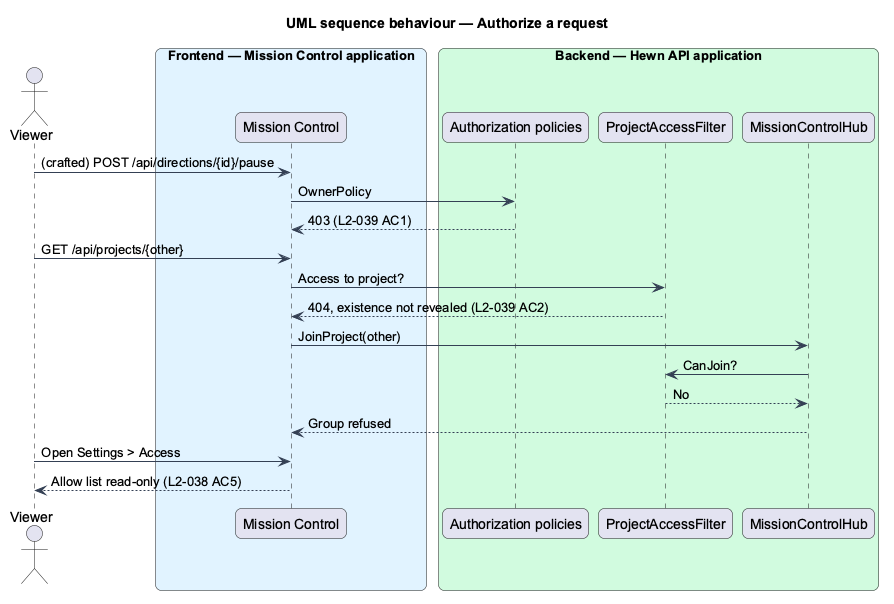
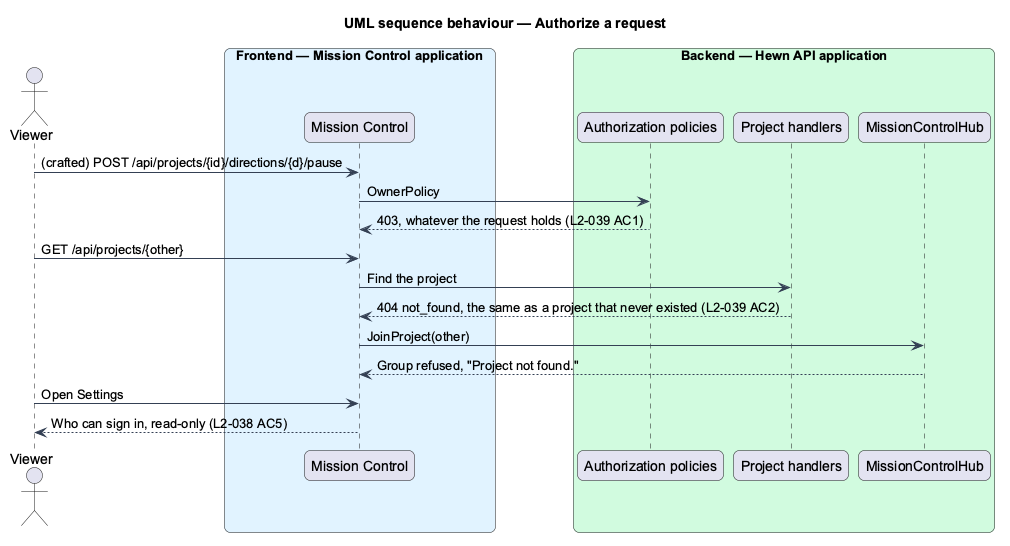
Record how access is managed and enforced
ADR 0023: every request checks its session against the allow list, held
in memory; new logins are confirmed with GitHub; an Owner can't remove
themselves. The sign-in design gains the manage-the-allow-list sequence,
its authorize sequence matches what's built, and the CHANGELOG lists
journey 21.

Traces to: L2-038, L2-039

Claude-Session: https://claude.ai/code/session_01LjZiMqftK4BJirXGfFyqYe

diff --git a/docs/detailed-designs/security/sign-in-and-access/README.md b/docs/detailed-designs/security/sign-in-and-access/README.md
@@ -70,6 +70,13 @@ elsewhere or the 8 hours passing, reloads at sign-in saying the session ended (L
 
 ![Sequence diagram: sign out](diagrams/sequence-sign-out.png)
 
+### Behaviour — manage the allow list
+
+An Owner adds a login once GitHub confirms it exists, or removes one; a removed login's session ends on its next
+request (L2-038 AC5, AC3).
+
+![Sequence diagram: manage the allow list](diagrams/sequence-manage-allow-list.png)
+
 ### Behaviour — authorize a request
 
 A Viewer's state change returns 403 (L2-039 AC1); an inaccessible project returns 404 or a refused group (AC2). Owners edit the allow list; Viewers read it (L2-038 AC5).
@@ -96,4 +103,22 @@ Journey 20 built L2-038 AC1 to AC4 ([ADR 0022](../../../adr/0022-the-api-serves-
   states from its query. The sidebar's Sign out icon button, added to the Magic Patterns shell and the mocks for
   this journey, reloads at `/sign-in?reason=signed-out`. `sessionExpiryInterceptor` turns a 401 once signed in into
   `/sign-in?reason=expired&returnUrl=`.
-- **Not built in this journey:** the allow list in Settings (AC5). Revocations past their 8 hours are pruned at each sign-out.
+- **Not built in this journey:** the allow list in Settings (AC5), built in journey 21. Revocations past their 8 hours are pruned at each sign-out.
+
+## Decisions made while managing access
+
+Journey 21 built L2-038 AC5 and checked L2-039 AC1 and AC2 ([ADR 0023](../../../adr/0023-allow-list-changes-apply-on-the-next-request.md)).
+
+- **`AllowListController`** (`GET/POST /api/allow-list`, `DELETE /api/allow-list/{login}`), not the
+  `SettingsAccessSection` named above: Settings shows `AllowListComponent` ("Who can sign in") and
+  `AddUserDialog` on CDK Dialog. Owners come first, then logins in the order they were added.
+- **Adding asks GitHub** (`IGitHubIdentity.FindLoginAsync`): listed, malformed or unknown logins are 400 field
+  errors on `login`; GitHub not answering is 502 `github_failed`, the dialog's failed state.
+- **Every request checks the allow list**: `IsSessionValidQuery` replaces `IsSessionRevokedQuery`, using
+  `AllowListAccess` in memory. A removed login is 401 on its next request.
+- **An Owner can't remove themselves** (409 `cannot_remove_yourself`); their row has no Remove.
+- **Last sign-in** is recorded on the entry at each sign-in (`RecordSignInCommand`), with who added it and when.
+- **`ProjectAccessFilter` is not a class.** Every project route already answers an unknown project with the same
+  404 `not_found`, and `JoinProject` refuses it; every allow-listed user can see every project. Two acceptance
+  tests now call every state-changing endpoint as a Viewer (403) and every project route for a project nobody can
+  see (404), so a new endpoint without the rules fails them.

diff --git a/docs/adr/0023-allow-list-changes-apply-on-the-next-request.md b/docs/adr/0023-allow-list-changes-apply-on-the-next-request.md
@@ -1,0 +1,40 @@
+# 0023. Allow-list changes apply on the next request, and new logins are confirmed with GitHub
+
+- **Status:** Accepted
+- **Date:** 2026-11-10
+- **Requirements:** L2-038, L2-039
+
+## Context
+
+L2-038 AC5 lets an Owner add a GitHub login to the allow list as Owner or Viewer, or remove one. A session cookie
+carries the login and role it signed in with, for 8 hours (ADR 0022). If only sign-in consulted the allow list, a
+removed login would keep its access for up to 8 hours. The add-user mock's failed state ("GitHub couldn't confirm
+the login exists") also implies the login is checked with GitHub before it is added.
+
+## Decision
+
+- **Every request checks the session against the allow list.** `OnValidatePrincipal` asks `IsSessionValidQuery`:
+  the session wasn't signed out, and its login is still listed with the role it signed in with. Otherwise the
+  cookie is rejected and the request is 401.
+- **`AllowListAccess` holds logins and roles in memory**, like `RevokedSessions`, so the check costs no database
+  read. A login it doesn't hold yet is read once from the database; adding and removing through Hewn keep it
+  current.
+- **A new login must exist on GitHub.** `IGitHubIdentity.FindLoginAsync` calls `GET /users/{login}`: a 404 is the
+  field error "No GitHub account is called @x."; any other failure, such as a rate limit, is 502 `github_failed`
+  and nothing is added.
+- **An Owner can't remove themselves** (409 `cannot_remove_yourself`), so the list always keeps an Owner.
+- Roles aren't edited in place; to change one, remove the login and add it again.
+
+## Alternatives
+
+- **Read the allow list from the database on each request.** Simple, but a database read per request, and SQLite
+  locks under the hub's concurrent writes.
+- **Short sessions instead of a per-request check.** A removed login keeps access until its session expires.
+- **Add logins without asking GitHub.** A typo would sit on the list, and nobody could sign in with it.
+
+## Consequences
+
+- One API instance (as ADR 0022); a second would need the cache shared or invalidated.
+- A login removed or re-roled directly in the database, outside Hewn, keeps its cached role until the API restarts.
+- A removed user's open Mission Control reloads at sign-in with the expired message, and is refused if they sign in
+  again.

diff --git a/CHANGELOG.md b/CHANGELOG.md
@@ -14,6 +14,12 @@ and this project adheres to [Semantic Versioning](https://semver.org/spec/v2.0.0
 
 ### Added
 
+- Manage Owner and Viewer access (journey 21, L2-038 AC5, L2-039): Settings shows "Who can sign in", each GitHub
+  login with its role and last sign-in. An Owner adds a login as Viewer or Owner once GitHub confirms it exists, and
+  removes any login but their own; a removed login is signed out on its next request (ADR 0023). Viewers see the
+  list read-only. `GET/POST /api/allow-list`, `DELETE /api/allow-list/{login}`. Migration `ManageAllowList` adds
+  `LastSignInAt`, `AddedAt` and `AddedBy` to `allow_list`. New tests call every state-changing endpoint as a Viewer
+  (403) and every project route for an unseen project (404).
 - Sign in and sign out (journey 20, L2-038, L2-043): Mission Control signs in with GitHub through
   `GET /api/auth/github` and its callback; logins not on the allow list are refused with "This account doesn't have
   access", and the sign-in page shows the denied, GitHub failed, expired and signed-out states. The sidebar gains

diff --git a/docs/adr/README.md b/docs/adr/README.md
@@ -26,3 +26,4 @@ Read the ADRs that cover an area before changing it. New ADRs take the next numb
 | [0020](0020-decisions-are-listed-from-hewns-record.md) | Decisions are listed from Hewn's record, with the commit that wrote them | Accepted |
 | [0021](0021-increment-videos-are-served-through-the-api.md) | Increment videos are served through the Hewn API from the commit that recorded them | Accepted |
 | [0022](0022-the-api-serves-mission-control-and-ends-sessions-by-id.md) | The API serves Mission Control with its protections, and ends sessions by id | Accepted |
+| [0023](0023-allow-list-changes-apply-on-the-next-request.md) | Allow-list changes apply on the next request, and new logins are confirmed with GitHub | Accepted |
